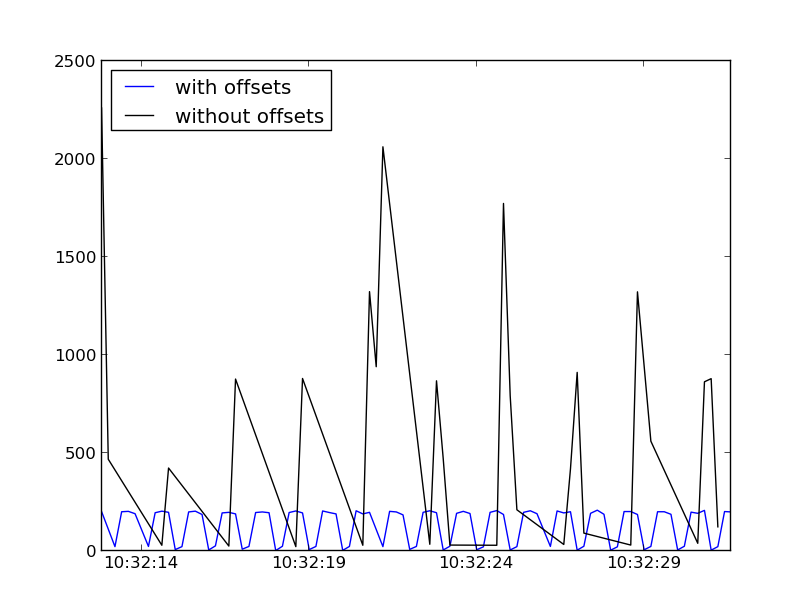
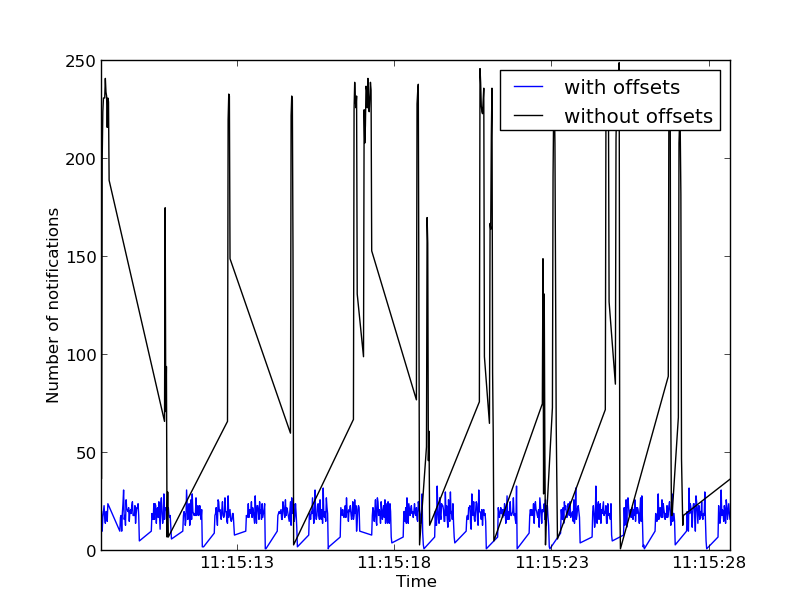
Added high res burstiness graph

Changed region(s): [[0.0616, 0.0931, 0.9236, 0.9624], [0.1847, 0.4657, 0.2155, 0.7141], [0.2771, 0.5899, 0.3079, 0.7141]]

diff --git a/Chapters/Scheduling.tex b/Chapters/Scheduling.tex
@@ -549,6 +549,28 @@ We compared the subperiod algorithm with a simple algorithm that uses one thread
 
 It can be noticed that the jitter is considerably smaller with our algorithm and that the thread-based algorithm actually does not satisfy the requirement to have jitter less than 10 percent.
 
+\subsubsection*{Traffic shaping}
+
+As we mentioned, we are interested in making traffic less bursty as it produces memory allocation spikes which cause stop-the-world garbage collector to run in applications written in Java. 
+
+We ran an experiment with the same setup as before, we registered one subscriber for the IS server and we compared the pattern of the updates received by that subscriber for both scheduling algorithms. In figure \ref{fig:burstiness} we present the number of updates in each interval of 20ms over a 20s period. In figure \ref{fig:burstiness_hires} we show the number of updates per millisecond during a 200ms period. 
+
+\begin{figure}[ht]
+\centering
+\includegraphics[scale=0.6]{Images/burstiness.png}
+\caption{Traffic burstiness comparison (low granularity).}
+\label{fig:burstiness}
+\end{figure}
+
+\begin{figure}[ht]
+\centering
+\includegraphics[scale=0.6]{Images/burstiness_hires.png}
+\caption{Traffic burstiness comparison (high granularity).}
+\label{fig:burstiness_hires}
+\end{figure}
+
+One can see that the size of the highest spike is reduced significantly with the subperiod offset assignment algorithm.
+
 \subsubsection*{Global scheduling}
 
 We repeated the simulation experiment for the global scheduling in the testbed. The setup was similar: 400 applications running on 40 nodes that publish one histogram in a time slot. We ran this experiment with only one histogram for each of the three size classes. 
@@ -564,18 +586,6 @@ On the latency graph we can see again a threshold after which the decrease in la
 
 
 
-
-\subsubsection*{Traffic shaping}
-
-As we mentioned we are interested in reducing traffic spikes as they produce memory allocation spikes which cause stop-the-world garbage collector to run in applications written in Java. We run the same setup as before and we registered one subscriber for the IS server. The graphic below shows the number of updates it receives in a time unit with both scheduling algorithms. 
-
-\begin{figure}[H]
-\centering
-\includegraphics[scale=0.6]{Images/burstiness.png}
-\caption{Traffic burstiness comparison.}
-\end{figure}
-
-One can see that the size of the highest spike is reduced 8 times with the subperiod offset assignment algorithm.
 
 \subsubsection*{Publishing skew and latency}
 
